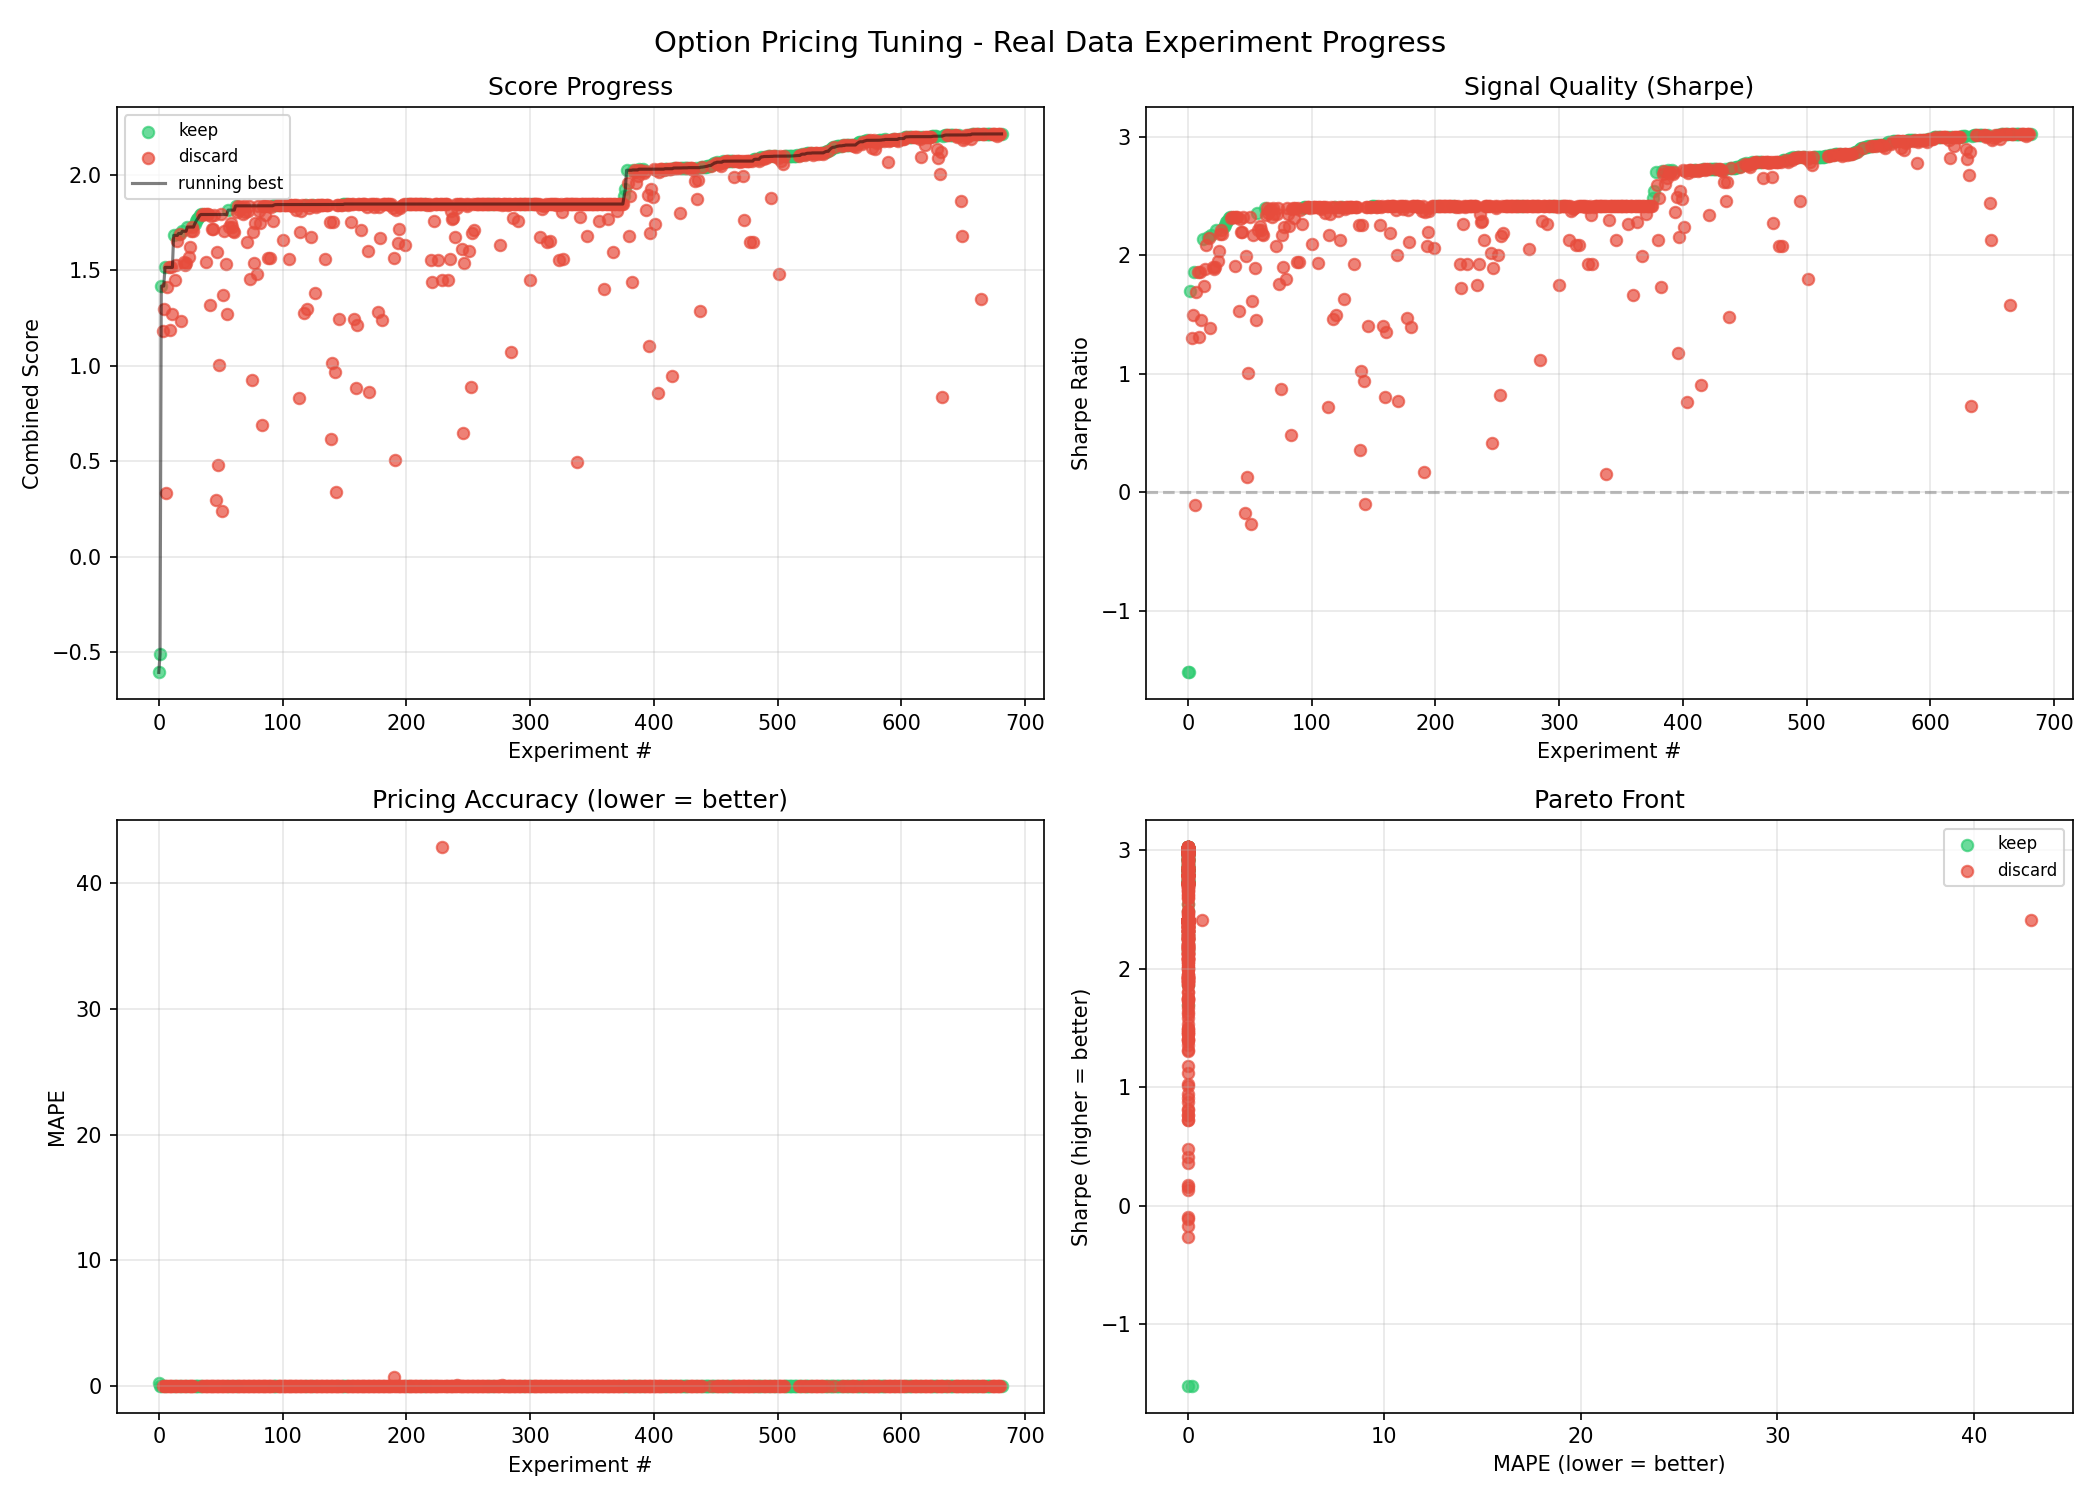
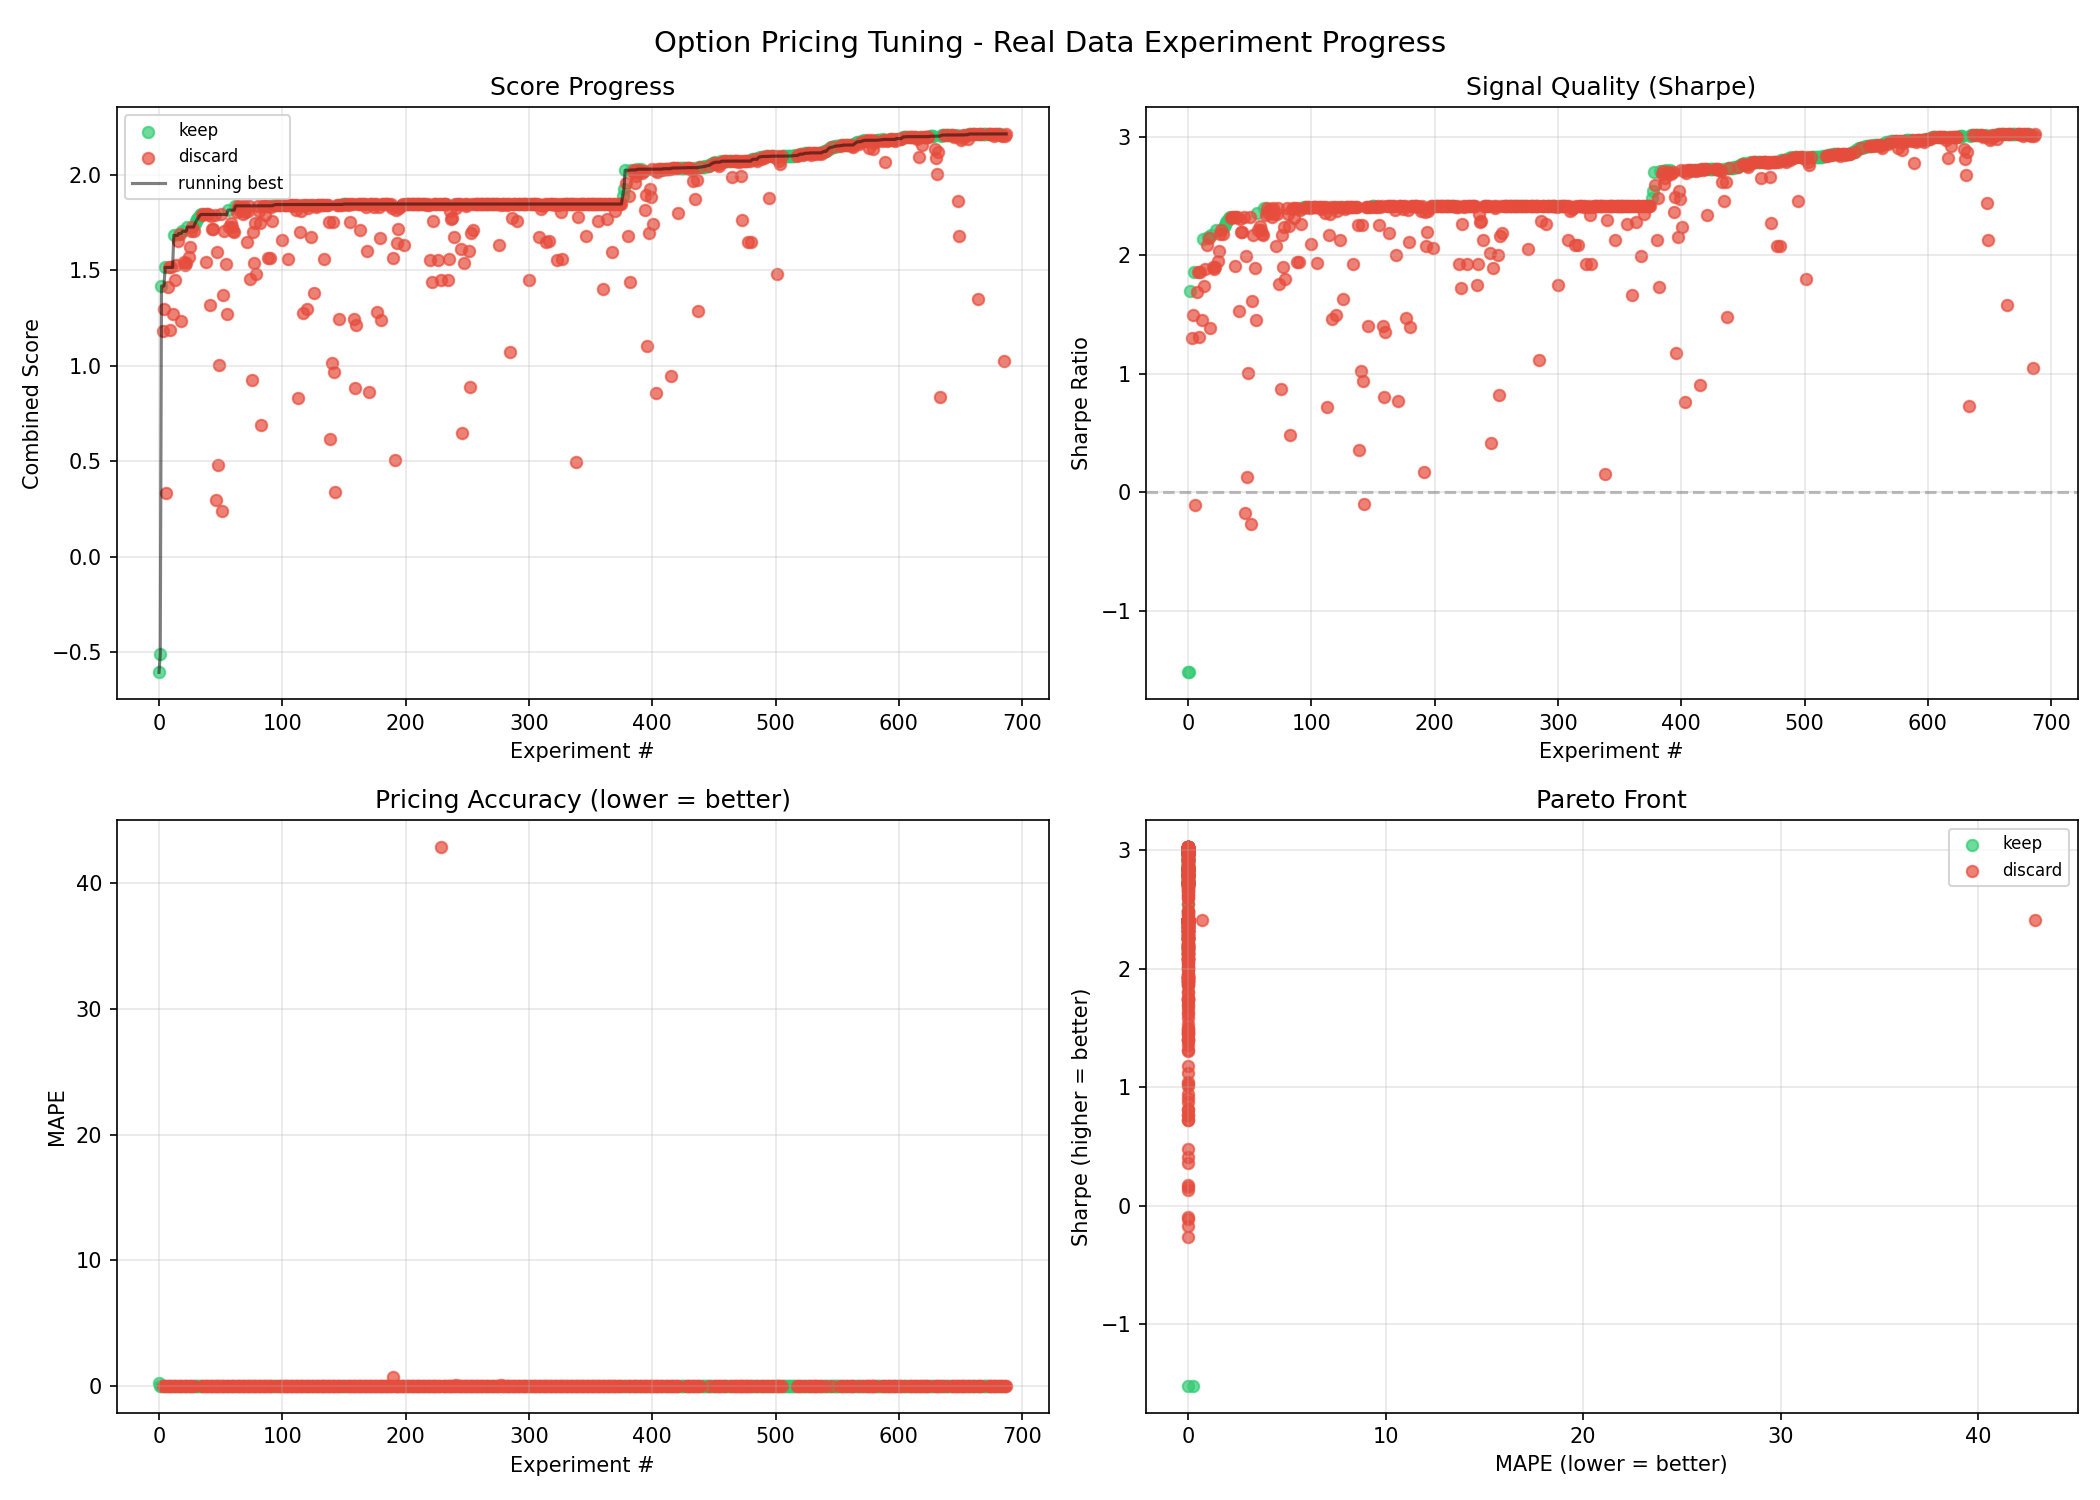
log exp688

diff --git a/README.md b/README.md
@@ -14,7 +14,7 @@ signals using **real stock market data** from Yahoo Finance.
 | MAPE | 0.002003 |
 | Win Rate | 86.2% |
 | Trades | 29 |
-| Experiments | 682 (151 kept) |
+| Experiments | 688 (152 kept) |
 
 ## How It Works
 
